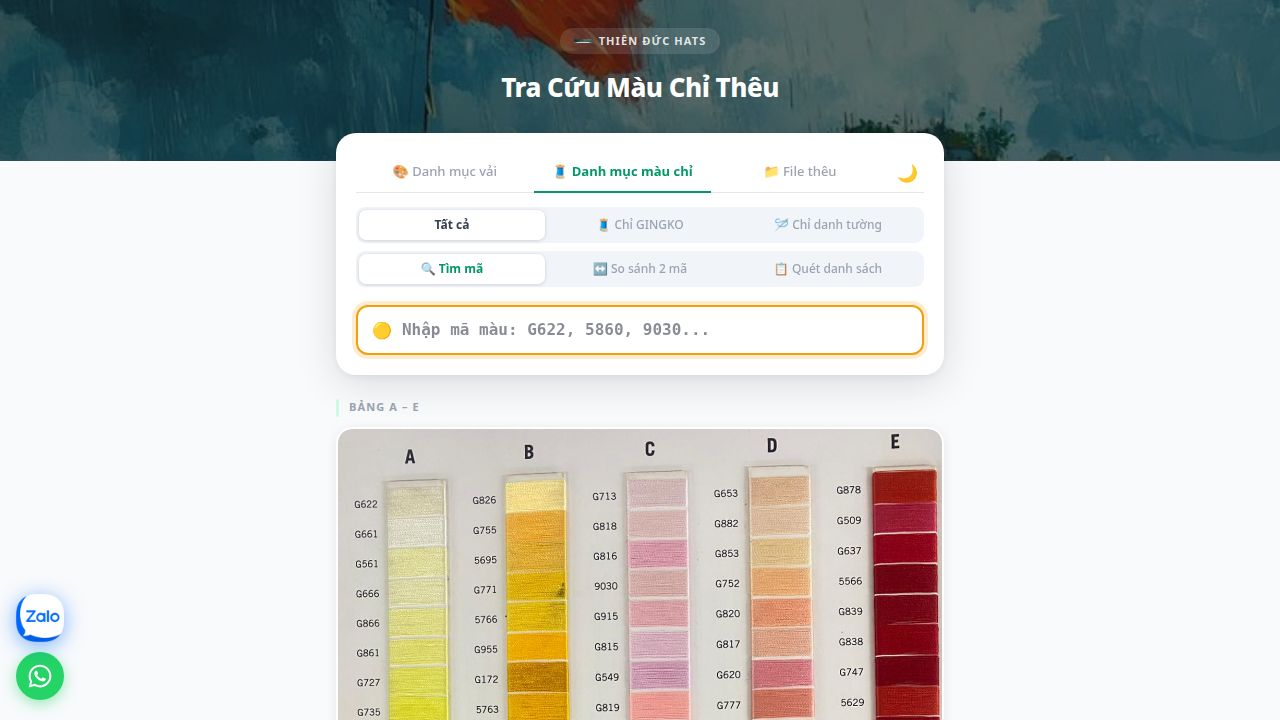
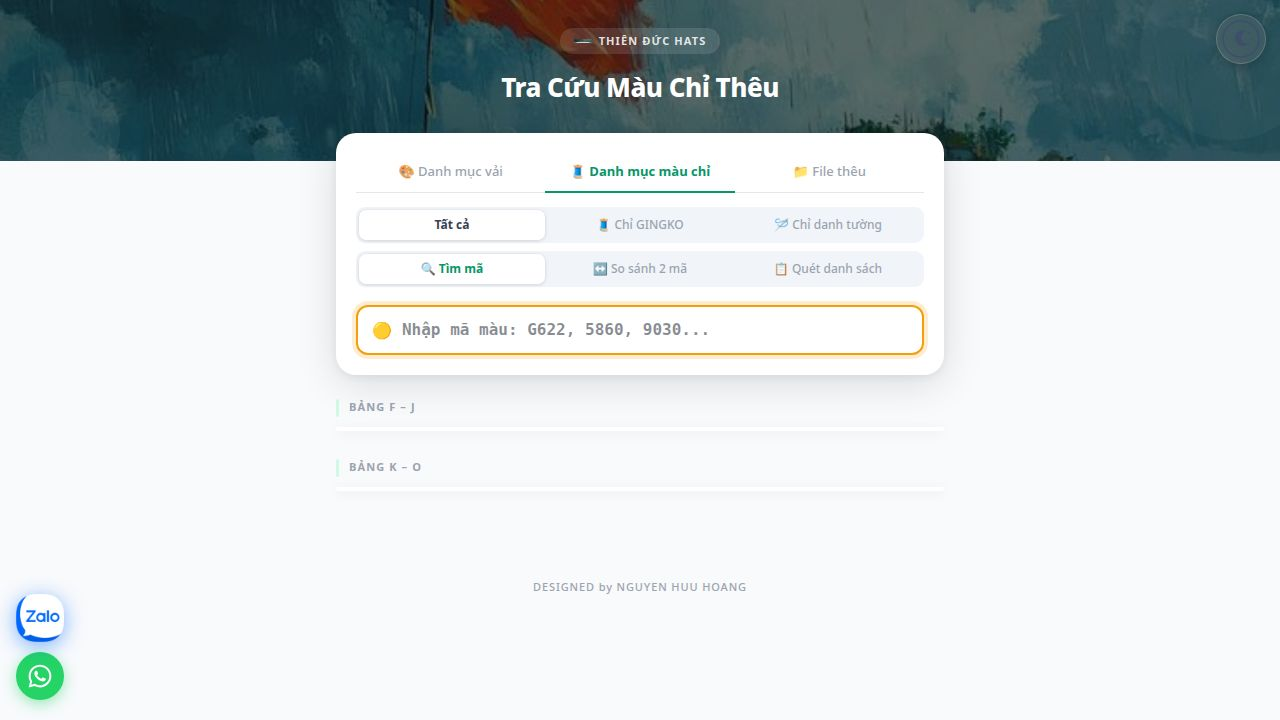
Improve accuracy of code placement on thread charts
Refactor API and frontend to use precise, per-code coordinates for OCR results, ensuring accurate overlay of thread codes onto their corresponding color swatches.

Replit-Commit-Author: Agent
Replit-Commit-Session-Id: 8a211661-5586-44ff-bc3a-dd7c880ed23b
Replit-Commit-Checkpoint-Type: full_checkpoint
Replit-Commit-Event-Id: dad6c896-cc6a-4e7a-b3f4-c0acb76d8e01
Replit-Commit-Screenshot-Url: https://storage.googleapis.com/screenshot-production-us-central1/adad4db2-4816-4309-b473-cd1a24e9eef3/8a211661-5586-44ff-bc3a-dd7c880ed23b/gNAFwX2
Replit-Helium-Checkpoint-Created: true

diff --git a/artifacts/api-server/src/routes/ocr.ts b/artifacts/api-server/src/routes/ocr.ts
@@ -8,16 +8,19 @@ const openai = new OpenAI({
   apiKey: process.env.AI_INTEGRATIONS_OPENAI_API_KEY,
 });
 
+export interface OcrCodeEntry {
+  code: string;
+  xPct: number;
+  yPct: number;
+}
+
 export interface OcrColumn {
   label: string;
-  xPct: number;
-  codes: string[];
+  entries: OcrCodeEntry[];
 }
 
 export interface OcrResult {
-  chart: "ae" | "fj" | "ko" | "unknown";
-  gridTopPct: number;
-  gridBottomPct: number;
+  chart: string;
   columns: OcrColumn[];
   codes: string[];
 }
@@ -38,39 +41,16 @@ router.post("/ocr-image", async (req, res) => {
           content: [
             {
               type: "text",
-              text: `You are analyzing a GINGKO embroidery thread color chart image. Extract ALL thread color codes visible.
+              text: `Analyze this GINGKO embroidery thread color chart photo. Extract ALL thread codes and their EXACT pixel positions as fractions of image size.
 
-Thread codes look like: G followed by digits (G532, G629), digits only (5860, 9030), or starting with 00 (00344, 00555).
+Codes look like: G622, 5860, 9030, 00344. Chart has 5 vertical columns (A-E or F-J or K-O), ~20 rows each.
 
-The chart has 5 vertical columns with letter headers. Identify which chart type:
-- "ae" chart: columns A, B, C, D, E
-- "fj" chart: columns F, G, H, I, J
-- "ko" chart: columns K, L, M, N, O
+For each code: report its center position as xPct (0=left, 1=right) and yPct (0=top, 1=bottom). Be PRECISE - each code must align with the color swatch on its SAME row.
 
-Each column has up to 20 color swatches with a code label, arranged top to bottom.
+Return ONLY valid JSON, no markdown backticks:
+{"chart":"ae","columns":[{"label":"A","entries":[{"code":"G622","xPct":0.05,"yPct":0.09},...]},{"label":"B","entries":[...]},{"label":"C","entries":[...]},{"label":"D","entries":[...]},{"label":"E","entries":[...]}]}
 
-CRITICAL: Estimate the EXACT spatial position of the code labels in this image:
-- gridTopPct: Y position (fraction 0.0-1.0 of image height) where the CENTER of the FIRST ROW of labels is
-- gridBottomPct: Y position where the CENTER of the LAST ROW of labels is
-- For each column, xPct: the X CENTER position (fraction 0.0-1.0 of image width) of that column's code labels
-
-Look carefully at where each label physically sits in the image and report accurate fractions.
-
-Return ONLY a JSON object (no markdown, no explanation):
-{
-  "chart": "ae",
-  "gridTopPct": 0.12,
-  "gridBottomPct": 0.90,
-  "columns": [
-    {"label": "A", "xPct": 0.10, "codes": ["G622","G661",...all 20 codes top to bottom]},
-    {"label": "B", "xPct": 0.28, "codes": [...]},
-    {"label": "C", "xPct": 0.46, "codes": [...]},
-    {"label": "D", "xPct": 0.64, "codes": [...]},
-    {"label": "E", "xPct": 0.82, "codes": [...]}
-  ]
-}
-
-Use "" for any code position that is not visible. Estimate xPct and gridTopPct/gridBottomPct as accurately as possible.`,
+Use "ae" for A-E, "fj" for F-J, "ko" for K-O.`,
             },
             {
               type: "image_url",
@@ -82,39 +62,45 @@ Use "" for any code position that is not visible. Estimate xPct and gridTopPct/g
           ],
         },
       ],
-      max_completion_tokens: 4000,
+      max_completion_tokens: 16384,
     });
 
-    const content = response.choices[0]?.message?.content ?? "{}";
-    console.log("OCR raw response:", content.substring(0, 300));
+    const content = response.choices[0]?.message?.content ?? "";
+    if (!content || content.trim().length === 0) {
+      res.json({ chart: "unknown", columns: [], codes: [] } as OcrResult);
+      return;
+    }
 
     const jsonMatch = content.match(/\{[\s\S]*\}/);
     if (!jsonMatch) {
-      res.json({ chart: "unknown", gridTopPct: 0.08, gridBottomPct: 0.94, columns: [], codes: [] } as OcrResult);
+      res.json({ chart: "unknown", columns: [], codes: [] } as OcrResult);
       return;
     }
 
     const parsed = JSON.parse(jsonMatch[0]) as {
       chart: string;
-      gridTopPct?: number;
-      gridBottomPct?: number;
-      columns: Array<{ label: string; xPct?: number; codes: string[] }>;
+      columns: Array<{
+        label: string;
+        entries: Array<{ code: string; xPct?: number; yPct?: number }>;
+      }>;
     };
 
     const rawColumns = parsed.columns ?? [];
     const columns: OcrColumn[] = rawColumns.map(col => ({
       label: col.label,
-      xPct: typeof col.xPct === "number" ? col.xPct : 0.1,
-      codes: col.codes.map(c => (typeof c === "string" ? c.trim() : "")),
+      entries: (col.entries ?? [])
+        .filter(e => e.code && typeof e.code === "string" && e.code.trim().length > 0)
+        .map(e => ({
+          code: e.code.trim(),
+          xPct: typeof e.xPct === "number" ? e.xPct : 0.1,
+          yPct: typeof e.yPct === "number" ? e.yPct : 0.1,
+        })),
     }));
 
-    const codes = columns.flatMap(col => col.codes).filter(c => c.length > 0);
+    const codes = columns.flatMap(col => col.entries.map(e => e.code));
 
-    const validCharts = ["ae", "fj", "ko"];
     const result: OcrResult = {
-      chart: validCharts.includes(parsed.chart) ? parsed.chart as OcrResult["chart"] : "unknown",
-      gridTopPct: typeof parsed.gridTopPct === "number" ? parsed.gridTopPct : 0.08,
-      gridBottomPct: typeof parsed.gridBottomPct === "number" ? parsed.gridBottomPct : 0.94,
+      chart: parsed.chart ?? "unknown",
       columns,
       codes,
     };
@@ -122,7 +108,7 @@ Use "" for any code position that is not visible. Estimate xPct and gridTopPct/g
     res.json(result);
   } catch (err) {
     console.error("OCR error:", err);
-    res.status(500).json({ error: "Failed to analyze image", codes: [], columns: [], chart: "unknown", gridTopPct: 0.08, gridBottomPct: 0.94 });
+    res.status(500).json({ error: "Failed to analyze image", codes: [], columns: [], chart: "unknown" });
   }
 });
 

diff --git a/artifacts/thread-color/src/pages/home.tsx b/artifacts/thread-color/src/pages/home.tsx
@@ -100,6 +100,14 @@ function ChartImage({ chart, pins, focusedCode }: { chart: typeof CHARTS[0]; pin
   return (
     <div style={{ overflow: "hidden", position: "relative", borderRadius: 14 }}>
       <div ref={wrapRef} style={{ position: "relative" }}>
+        <img
+          src={`${import.meta.env.BASE_URL}${chart.file.replace(/^\//, "")}`} alt={chart.label}
+          style={{ display: "block", width: "100%", userSelect: "none" }}
+          onLoad={() => {
+            const img = wrapRef.current?.querySelector("img");
+            if (img) setSize({ w: img.offsetWidth, h: img.offsetHeight });
+          }}
+        />
         {size.w > 0 && chart.columns.flatMap(col =>
           col.codes.map((code, row) => {
             const cx = col.xPct * size.w;
@@ -172,20 +180,13 @@ export default function Home() {
   const [ocrFoundCount, setOcrFoundCount] = useState(0);
   const ocrFileRef = useRef<HTMLInputElement>(null);
 
+  interface OcrEntry { code: string; xPct: number; yPct: number }
+  interface OcrCol { label: string; entries: OcrEntry[] }
+
   const annotateImage = useCallback(async (
     imgUrl: string,
-    chart: string,
-    columns: Array<{ label: string; xPct?: number; codes: string[] }>,
-    gridTopPct: number,
-    gridBottomPct: number
+    columns: OcrCol[]
   ): Promise<string> => {
-    const FALLBACK_X: Record<string, number[]> = {
-      ae: [0.10, 0.28, 0.46, 0.64, 0.82],
-      fj: [0.059, 0.236, 0.456, 0.653, 0.852],
-      ko: [0.076, 0.250, 0.461, 0.654, 0.845],
-    };
-    const fallbackXPcts = FALLBACK_X[chart] ?? FALLBACK_X.ko;
-
     const img = await new Promise<HTMLImageElement>((resolve, reject) => {
       const image = new Image();
       image.onload = () => resolve(image);
@@ -201,11 +202,7 @@ export default function Home() {
 
     const W = canvas.width;
     const H = canvas.height;
-    const fontSize = Math.max(18, Math.round(W * 0.025));
-    const TOP_PCT = gridTopPct;
-    const BOT_PCT = gridBottomPct;
-    const ROW_COUNT = 20;
-    const rowHPct = (BOT_PCT - TOP_PCT) / ROW_COUNT;
+    const fontSize = Math.max(16, Math.round(W * 0.022));
 
     const drawRoundRect = (x: number, y: number, w: number, h: number, r: number) => {
       ctx.beginPath();
@@ -225,24 +222,22 @@ export default function Home() {
     ctx.textAlign = "center";
     ctx.textBaseline = "middle";
 
-    columns.forEach((col, colIdx) => {
-      const xPct = typeof col.xPct === "number" ? col.xPct : (fallbackXPcts[colIdx] ?? (colIdx * 0.2 + 0.05));
-      const cx = xPct * W;
-      col.codes.forEach((code, rowIdx) => {
-        if (!code || !code.trim()) return;
-        const cy = (TOP_PCT + (rowIdx + 0.5) * rowHPct) * H;
-        const tw = ctx.measureText(code).width;
+    columns.forEach(col => {
+      col.entries.forEach(entry => {
+        const cx = entry.xPct * W;
+        const cy = entry.yPct * H;
+        const tw = ctx.measureText(entry.code).width;
         const pad = fontSize * 0.35;
         const rw = tw + pad * 2;
         const rh = fontSize + pad * 1.4;
         const rx = cx - rw / 2;
         const ry = cy - rh / 2;
         const radius = rh * 0.32;
-        ctx.fillStyle = "rgba(255,255,255,0.90)";
+        ctx.fillStyle = "rgba(255,255,255,0.92)";
         drawRoundRect(rx, ry, rw, rh, radius);
         ctx.fill();
         ctx.fillStyle = "#111111";
-        ctx.fillText(code, cx, cy);
+        ctx.fillText(entry.code, cx, cy);
       });
     });
 
@@ -301,14 +296,14 @@ export default function Home() {
       });
       setOcrProgress(85);
       if (!res.ok) throw new Error("API error");
-      const data = await res.json() as { chart: string; gridTopPct?: number; gridBottomPct?: number; columns: Array<{ label: string; xPct?: number; codes: string[] }>; codes: string[] };
-      const { chart, columns, codes, gridTopPct = 0.08, gridBottomPct = 0.94 } = data;
+      const data = await res.json() as { chart: string; columns: OcrCol[]; codes: string[] };
+      const { columns, codes } = data;
       const codeText = codes.join(", ");
       setScanText(prev => prev ? prev + "\n" + codeText : codeText);
       setOcrFoundCount(codes.length);
-      if (columns && columns.length > 0) {
+      if (columns && columns.length > 0 && columns.some(c => c.entries?.length > 0)) {
         setOcrProgress(92);
-        const annotated = await annotateImage(previewUrl, chart, columns, gridTopPct, gridBottomPct);
+        const annotated = await annotateImage(previewUrl, columns);
         setOcrAnnotatedImg(annotated);
       }
       setOcrProgress(100);
